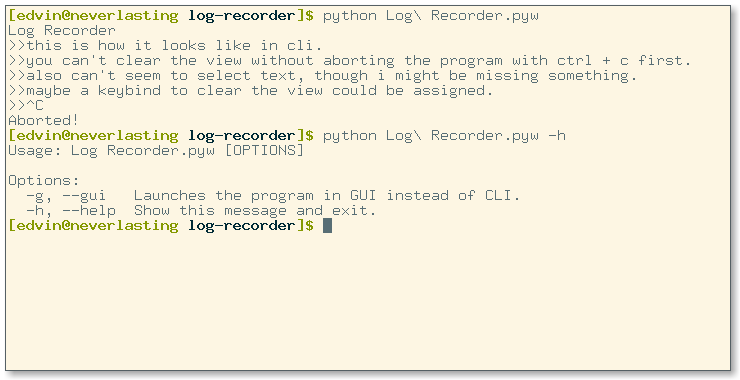
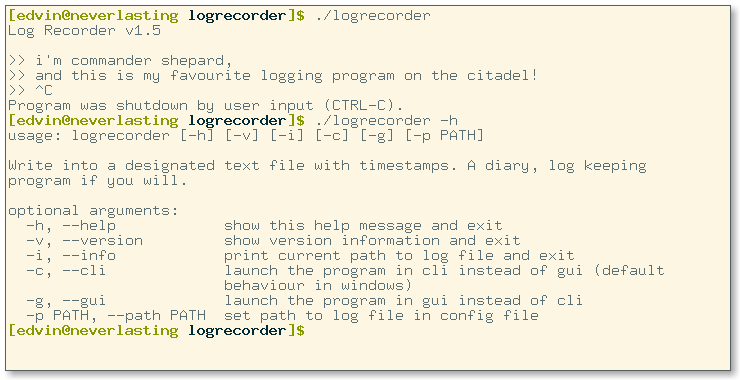
Update README with up to date information (#52)
Newline to initialise config print in program
Replace 500 years old screenshot with a new one

diff --git a/README.md b/README.md
@@ -1,31 +1,38 @@
 # Log Recorder
 A basic program which allows you to write into a designated text file with timestamps.
 
-### Instructions
-
 Run `make install` to install the program.
 
-You need to edit directory and filename in `dict_strings` beforehand for the program to work for your needs. Using absolute path is recommended. Or you can set the path on command line with options `-p` and `-f`.
-
-`path_dir`: directory path (`.` for the current directory)  
-`name_filename`: filename
-
-Default file path is `Other/myLogs.txt` for my own use.
-
-
+## HOW TO ❓
+* Set path to logs file you want to write into.
+* Run with either GUI or through CLI. GUI is default behaviour on Windows. 
+```bash
+$ ./logrecorder -p /path/to/logs.txt
+$ ./logrecorder # cli
+# or
+$ ./logrecorder --gui
+# or
+$ ./logrecorder --cli # on Windows
 ```
-Usage: logrecorder [OPTIONS]
-	
-Options:
-  -p, --path PATH	Set & save destination directory to the config file.
-  -f, --file FILENAME	Set & save target filename to the config file.
-			  Creating the config file will override path values of in-program dictionary (dict_strings: path_dir, name_filename).
-  -d, --del		Delete the configuration file & folder.
-  -g, --gui		Launch the program in GUI instead of CLI.
-			  When combining with path options, GUI must come last.
-  -v, --version		Show version information and exit.
-  -h, --help		Show this message and exit.
+
+### USAGE
 ```
+$ ./logrecorder [-h] [-v] [-i] [-c] [-g] [-p PATH]
+
+Write into a designated text file with timestamps. A diary, log keeping
+program if you will.
+
+optional arguments:
+  -h, --help            show this help message and exit
+  -v, --version         show version information and exit
+  -i, --info            print current path to log file and exit
+  -c, --cli             launch the program in cli instead of gui (default
+                        behaviour in windows)
+  -g, --gui             launch the program in gui instead of cli
+  -p PATH, --path PATH  set path to log file in config file
+```
+
+## Screenshots
 
 ### CLI
 
